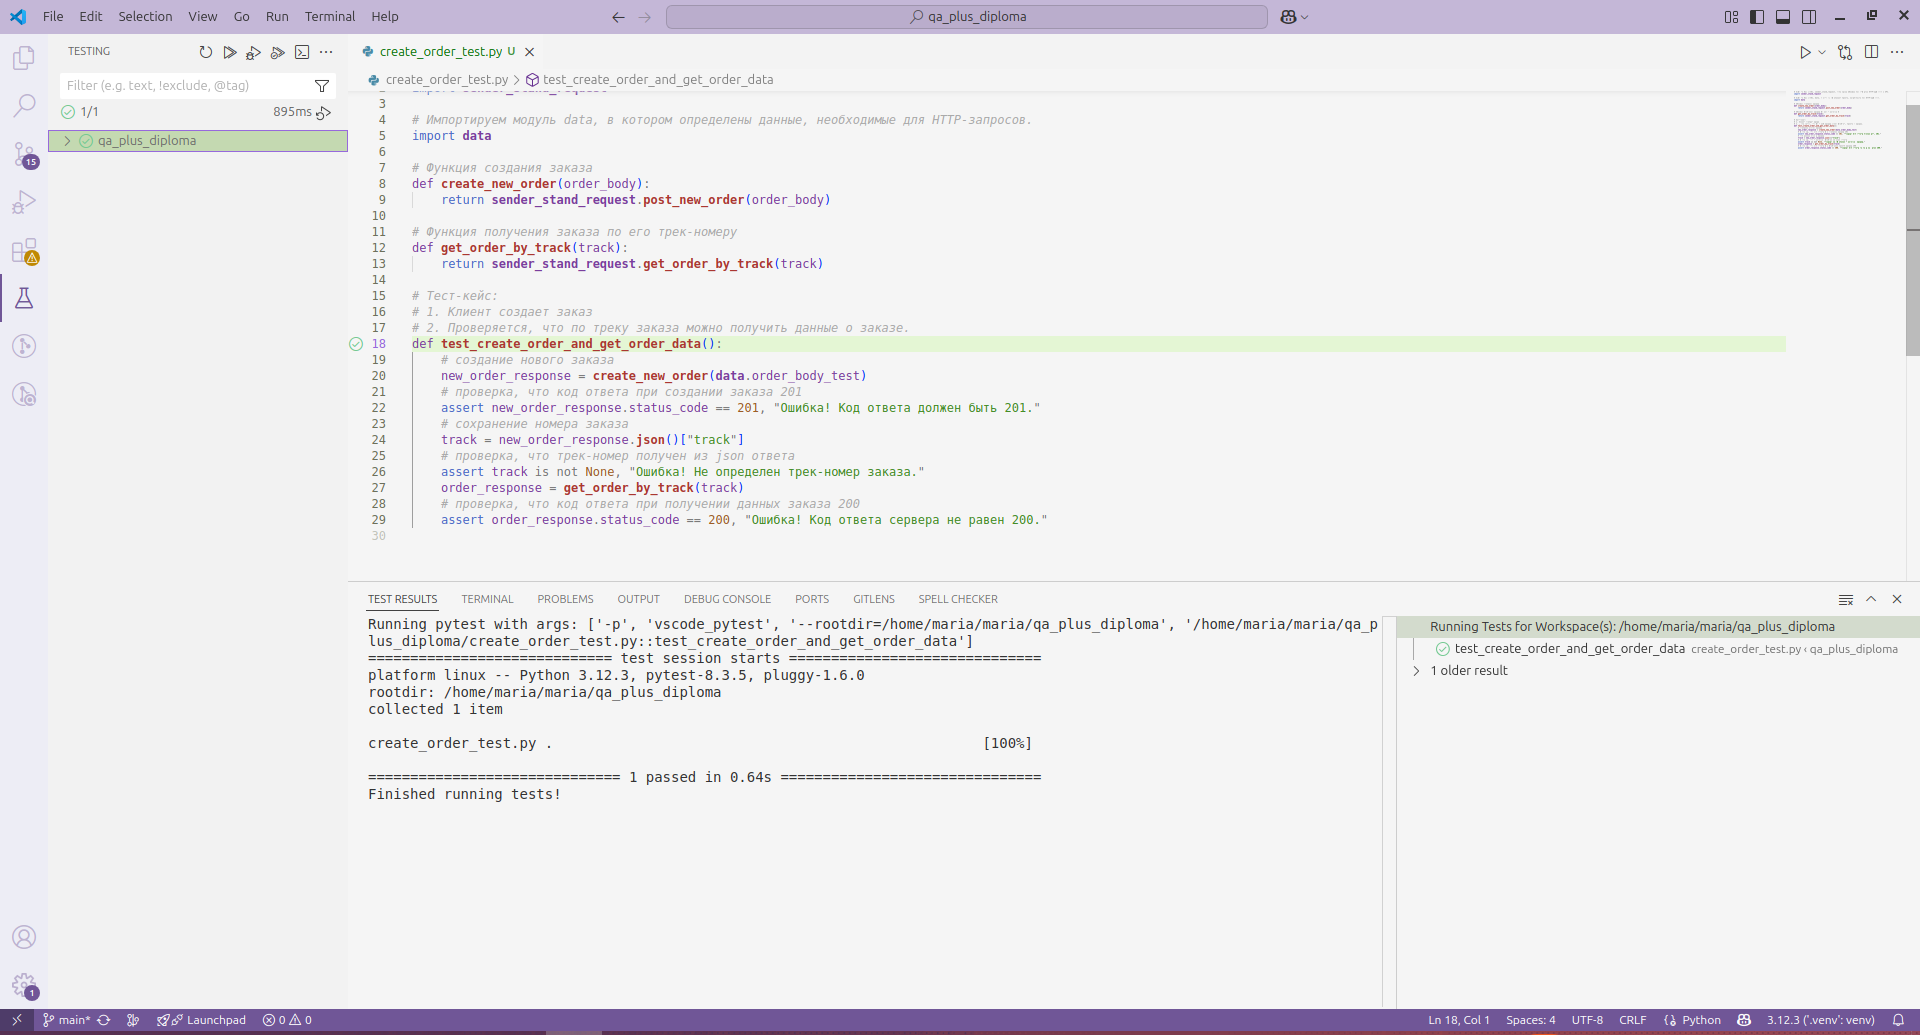
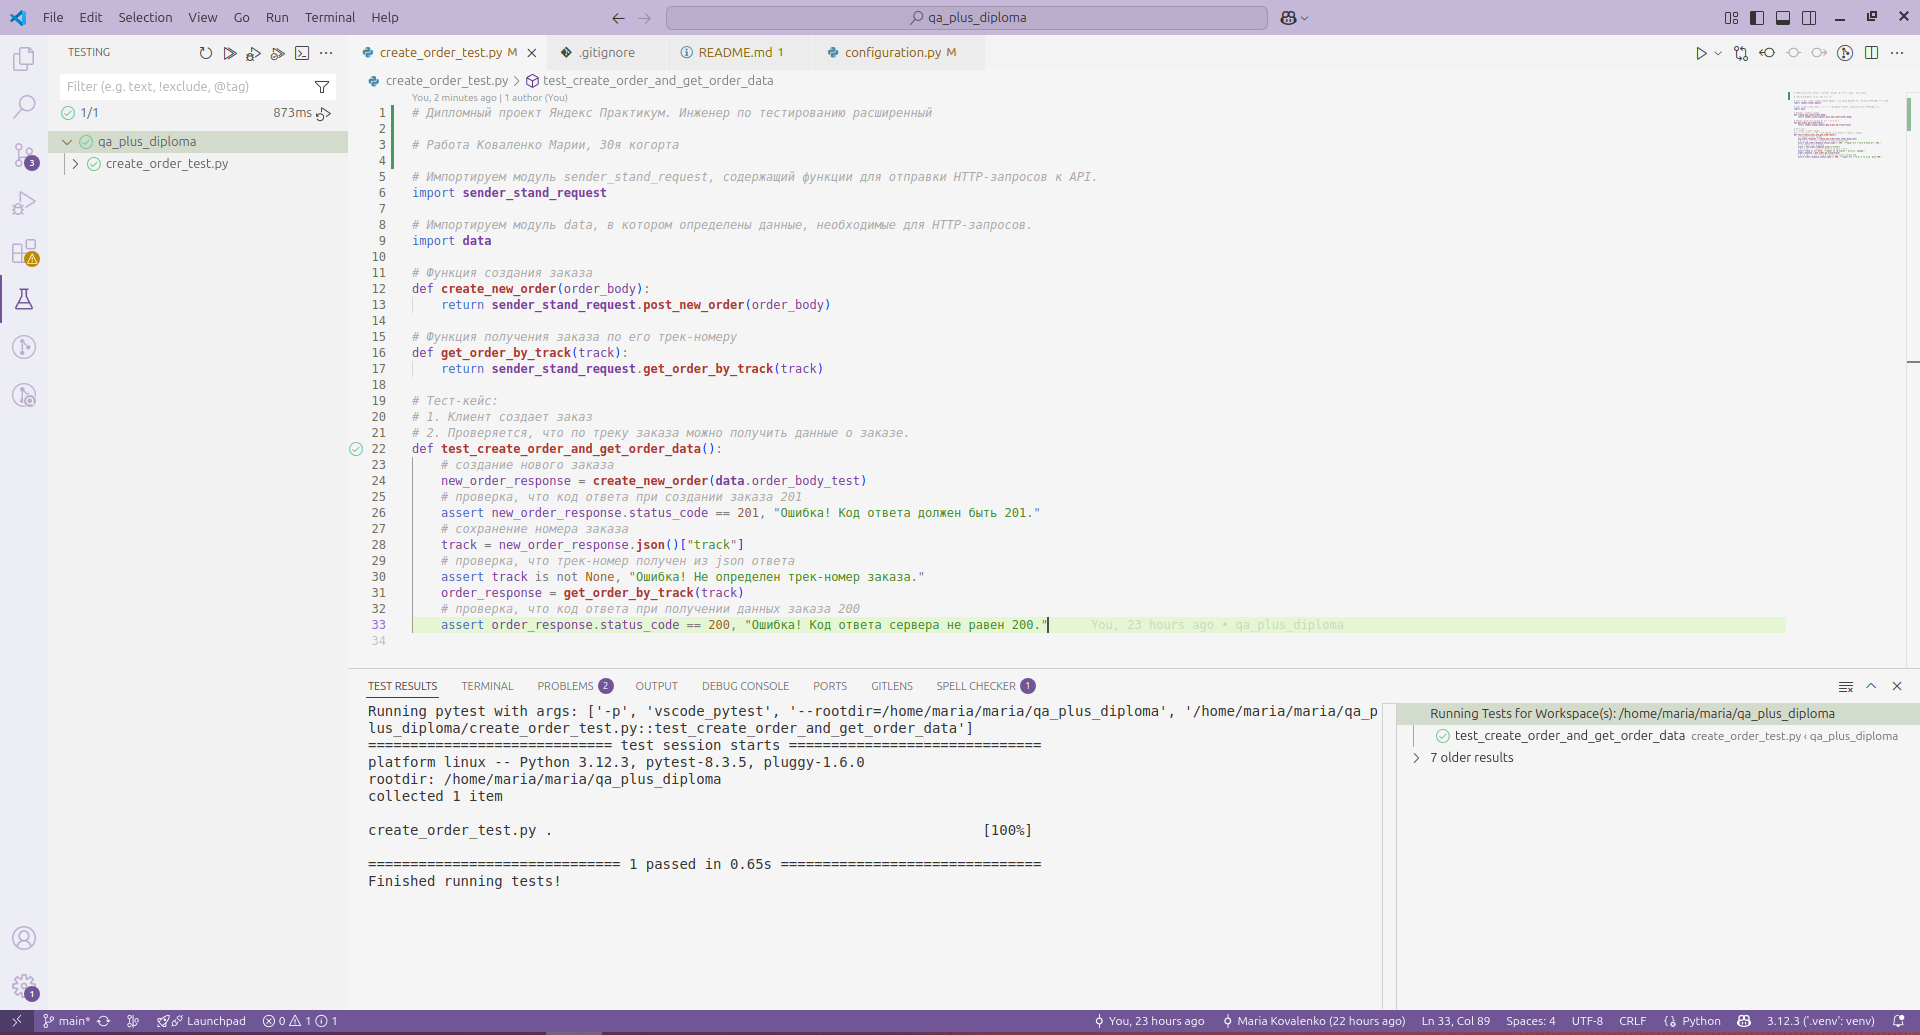
added author name to code

diff --git a/configuration.py b/configuration.py
@@ -1,5 +1,5 @@
 # URL-адрес тестового стенда сервера Ez-scooter
-URL_SERVICE = "https://ec79ca2a-6e01-4616-be3b-840be9e314ef.serverhub.praktikum-services.ru"
+URL_SERVICE = "https://45dcdab6-7e45-4f06-afde-3cec41380166.serverhub.praktikum-services.ru"
 
 # CREATE_ORDER_PATH путь к API-методу для создания заказа.
 CREATE_ORDER_PATH = "/api/v1/orders"

diff --git a/create_order_test.py b/create_order_test.py
@@ -1,3 +1,7 @@
+# Дипломный проект Яндекс Практикум. Инженер по тестированию расширенный
+
+# Работа Коваленко Марии, 30я когорта
+
 # Импортируем модуль sender_stand_request, содержащий функции для отправки HTTP-запросов к API.
 import sender_stand_request
 
